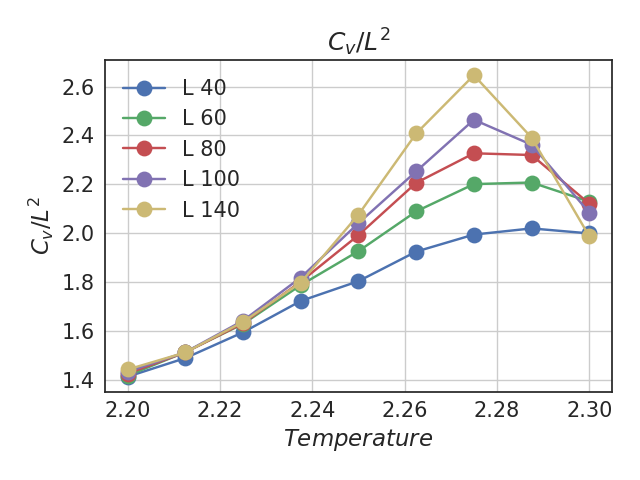
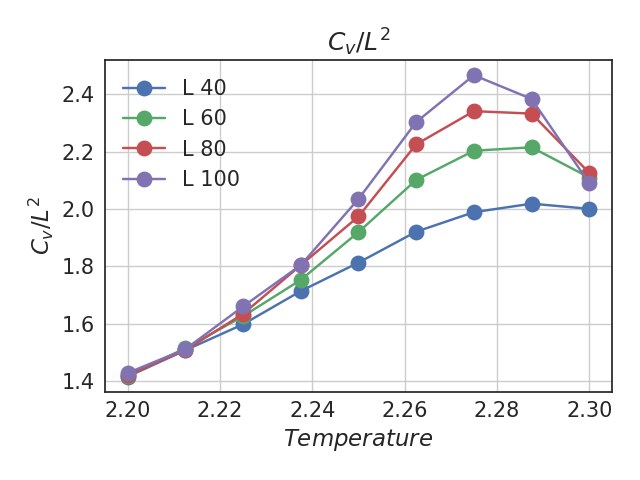
e & f

diff --git a/project4/runProject4.py b/project4/runProject4.py
@@ -319,7 +319,7 @@ class Project4:
         MCSamples = [int(round(10E6))]#[int(round(10E6))]
         mcs = MCSamples[0]
         outfileName = 'Out4e'
-        n_spins_list = [40,60,80,100,140]#, 80]#,100]#, 140]
+        n_spins_list = [40,60,80,100]#, 80]#,100]#, 140]
         initial_temp = 2.2
         final_temp = 2.3
         temp_step = .0125
@@ -333,9 +333,9 @@ class Project4:
         for n_spins in n_spins_list: 
             results4e['n_spins %d' % n_spins] = OrderedDict()
             outfileName2 = os.getcwd() + '/results/' + outfileName + str(n_spins)
-            self.runCpp(numprocs, outfileName2, n_spins,  mcs, initial_temp,
-                 final_temp, temp_step, orderingType, initializeForEachTemperature,
-                 printEnergyArray)
+#            self.runCpp(numprocs, outfileName2, n_spins,  mcs, initial_temp,
+#                 final_temp, temp_step, orderingType, initializeForEachTemperature,
+#                 printEnergyArray)
             counter = 0
             for temperature in temperatures:
                 outfileName3 = outfileName2 + 'TempNumber' + str(counter)+'.csv'    #.replace("0", "")
@@ -374,7 +374,7 @@ class Project4:
             plt.close()
             
         # Critical temperature
-        n_spins_list = [40, 60,100, 140] # new for table only
+        n_spins_list = [40, 60, 80, 100] # new for table only
         TCritical = []
         for n_spins in n_spins_list:
             CvMax = [np.asscalar(results4e['n_spins %d' %n_spins]['temperature %f' %temperature].Cv.values) for temperature in temperatures]
@@ -399,7 +399,7 @@ class Project4:
         outfileName2 = os.getcwd() + '/results/' + outfileName + 'TcCritical.txt'
         TOnsager = 2./np.log(1 + np.sqrt(2))
         diffFromOnsager = (np.asarray(TCriticalInfList)/TOnsager - 1.)*100
-        spinCombos = np.asarray([r'$[40, 60]$', r'$[40, 60, 100]$', r'$[40, 60, 100, 140]$'])
+        spinCombos = np.asarray([r'$[40, 60]$', r'$[40, 60, 80]$', r'$[40, 60, 80, 100]$'])
         
         tableForTcCritical = np.transpose(np.array((spinCombos, np.asarray(TCriticalInfList),diffFromOnsager)))
         tableForTcCriticalToLatex  = pd.DataFrame(tableForTcCritical, columns=['Spin combos', r'$T_c^{Estimate}(L=\infty)$',r'$(\frac{T_c^{Estimate}(L=\infty)}{T_{c,exact}}-1) \cdot 100$' ] )
